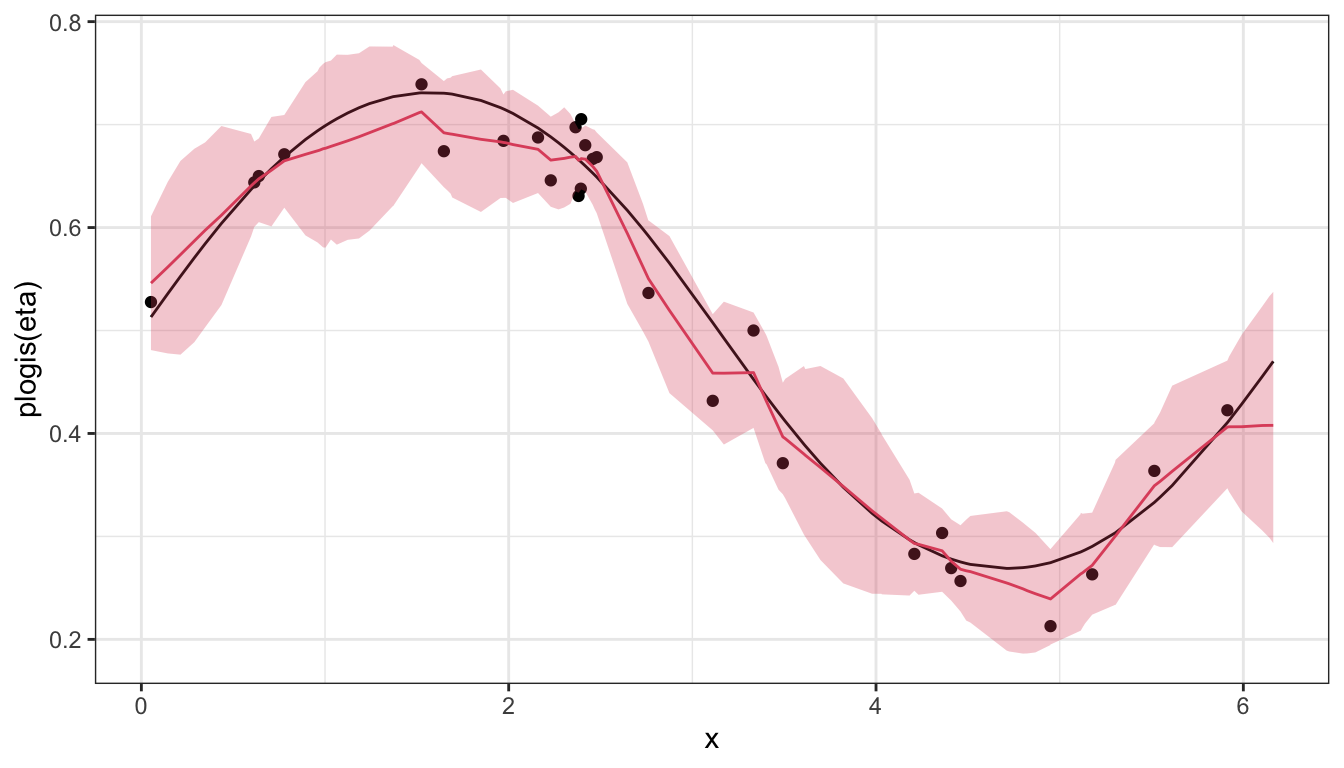
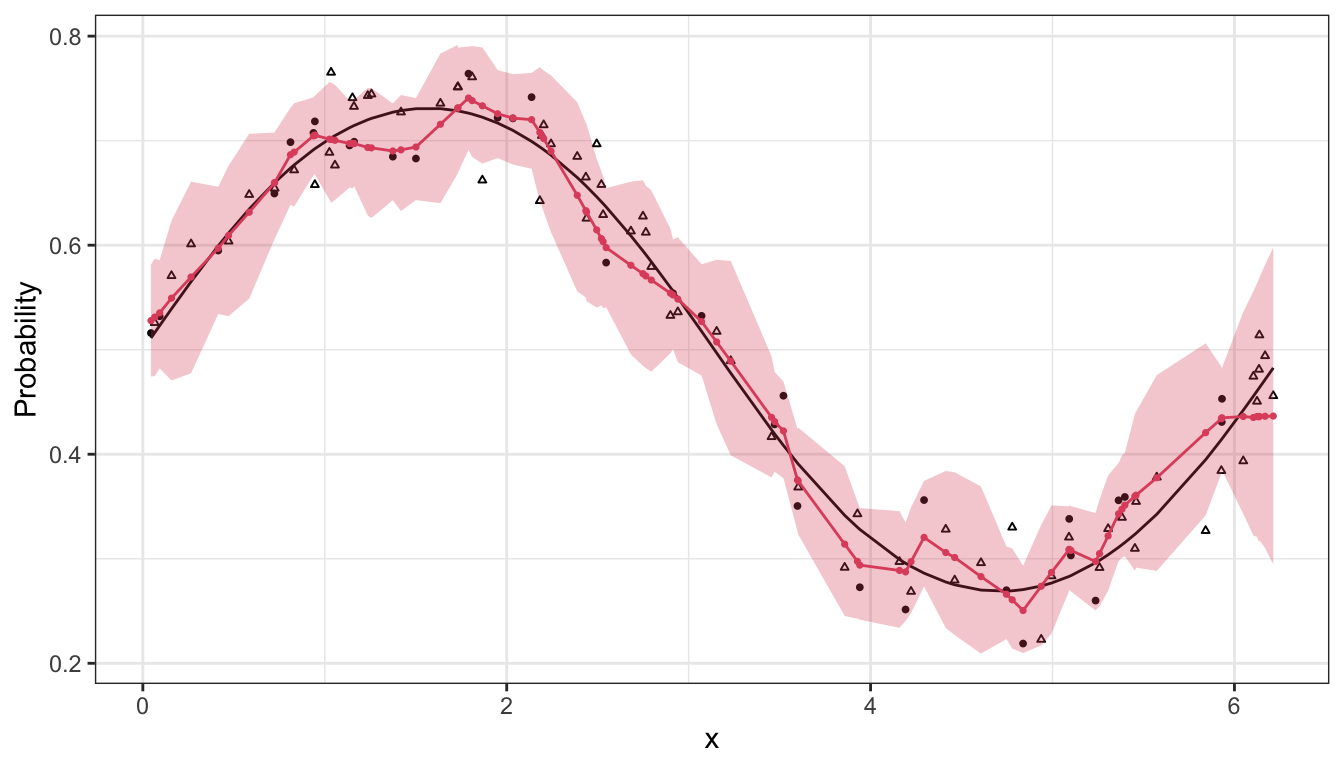
wip

diff --git a/docs/notebooks/random-walk-prior.html b/docs/notebooks/random-walk-prior.html
@@ -268,7 +268,7 @@ window.Quarto = {
 <div class="sourceCode cell-code" id="cb1"><pre class="sourceCode r code-with-copy"><code class="sourceCode r"><span id="cb1-1"><a href="#cb1-1" aria-hidden="true" tabindex="-1"></a><span class="fu">library</span>(data.table)</span>
 <span id="cb1-2"><a href="#cb1-2" aria-hidden="true" tabindex="-1"></a><span class="fu">library</span>(ggplot2)</span>
 <span id="cb1-3"><a href="#cb1-3" aria-hidden="true" tabindex="-1"></a></span>
-<span id="cb1-4"><a href="#cb1-4" aria-hidden="true" tabindex="-1"></a><span class="fu">set.seed</span>(<span class="dv">12</span>)</span>
+<span id="cb1-4"><a href="#cb1-4" aria-hidden="true" tabindex="-1"></a><span class="fu">set.seed</span>(<span class="dv">2</span>)</span>
 <span id="cb1-5"><a href="#cb1-5" aria-hidden="true" tabindex="-1"></a>d_obs <span class="ot">&lt;-</span> <span class="fu">data.table</span>(</span>
 <span id="cb1-6"><a href="#cb1-6" aria-hidden="true" tabindex="-1"></a>  <span class="at">x =</span> <span class="fu">sort</span>(<span class="fu">runif</span>(<span class="dv">100</span>, <span class="dv">0</span>, <span class="dv">2</span><span class="sc">*</span>pi))</span>
 <span id="cb1-7"><a href="#cb1-7" aria-hidden="true" tabindex="-1"></a>)</span>
@@ -390,7 +390,7 @@ window.Quarto = {
 <span id="cb3-8"><a href="#cb3-8" aria-hidden="true" tabindex="-1"></a>  <span class="at">x =</span> d_obs[, x], </span>
 <span id="cb3-9"><a href="#cb3-9" aria-hidden="true" tabindex="-1"></a>  <span class="at">y_mis =</span> d_obs[, y_mis], </span>
 <span id="cb3-10"><a href="#cb3-10" aria-hidden="true" tabindex="-1"></a>  <span class="at">prior_only =</span> F, </span>
-<span id="cb3-11"><a href="#cb3-11" aria-hidden="true" tabindex="-1"></a>  <span class="at">r_nu =</span> <span class="dv">10</span></span>
+<span id="cb3-11"><a href="#cb3-11" aria-hidden="true" tabindex="-1"></a>  <span class="at">r_nu =</span>  <span class="dv">3</span></span>
 <span id="cb3-12"><a href="#cb3-12" aria-hidden="true" tabindex="-1"></a>  )</span>
 <span id="cb3-13"><a href="#cb3-13" aria-hidden="true" tabindex="-1"></a></span>
 <span id="cb3-14"><a href="#cb3-14" aria-hidden="true" tabindex="-1"></a></span>
@@ -401,42 +401,51 @@ window.Quarto = {
 <div class="cell-output cell-output-stdout">
 <pre><code>Running MCMC with 1 chain...
 
-Chain 1 finished in 2.7 seconds.</code></pre>
+Chain 1 finished in 3.0 seconds.</code></pre>
 </div>
-<div class="sourceCode cell-code" id="cb5"><pre class="sourceCode r code-with-copy"><code class="sourceCode r"><span id="cb5-1"><a href="#cb5-1" aria-hidden="true" tabindex="-1"></a>f1<span class="sc">$</span><span class="fu">summary</span>(<span class="at">variables =</span> <span class="fu">c</span>(<span class="st">"nu"</span>))</span></code><button title="Copy to Clipboard" class="code-copy-button"><i class="bi"></i></button></pre></div>
+<div class="cell-output cell-output-stderr">
+<pre><code>Warning: 2 of 2000 (0.0%) transitions ended with a divergence.
+See https://mc-stan.org/misc/warnings for details.</code></pre>
+</div>
+<div class="sourceCode cell-code" id="cb6"><pre class="sourceCode r code-with-copy"><code class="sourceCode r"><span id="cb6-1"><a href="#cb6-1" aria-hidden="true" tabindex="-1"></a>f1<span class="sc">$</span><span class="fu">summary</span>(<span class="at">variables =</span> <span class="fu">c</span>(<span class="st">"nu"</span>))</span></code><button title="Copy to Clipboard" class="code-copy-button"><i class="bi"></i></button></pre></div>
 <div class="cell-output cell-output-stdout">
 <pre><code># A tibble: 1 × 10
-  variable  mean median     sd    mad    q5   q95  rhat ess_bulk ess_tail
-  &lt;chr&gt;    &lt;dbl&gt;  &lt;dbl&gt;  &lt;dbl&gt;  &lt;dbl&gt; &lt;dbl&gt; &lt;dbl&gt; &lt;dbl&gt;    &lt;dbl&gt;    &lt;dbl&gt;
-1 nu       0.459  0.448 0.0845 0.0826 0.343 0.612  1.00    1675.    1550.</code></pre>
+  variable  mean median    sd    mad    q5   q95  rhat ess_bulk ess_tail
+  &lt;chr&gt;    &lt;dbl&gt;  &lt;dbl&gt; &lt;dbl&gt;  &lt;dbl&gt; &lt;dbl&gt; &lt;dbl&gt; &lt;dbl&gt;    &lt;dbl&gt;    &lt;dbl&gt;
+1 nu       0.533  0.519 0.103 0.0946 0.392 0.722  1.00    1221.    1114.</code></pre>
 </div>
 </div>
 <p>Representation of output.</p>
 <div class="cell page-columns page-full">
-<div class="sourceCode cell-code" id="cb7" data-cap-location="margin"><pre class="sourceCode r code-with-copy"><code class="sourceCode r"><span id="cb7-1"><a href="#cb7-1" aria-hidden="true" tabindex="-1"></a>d_out <span class="ot">&lt;-</span> <span class="fu">data.table</span>(f1<span class="sc">$</span><span class="fu">draws</span>(<span class="at">variables =</span> <span class="st">"p"</span>, <span class="at">format =</span> <span class="st">"matrix"</span>))</span>
-<span id="cb7-2"><a href="#cb7-2" aria-hidden="true" tabindex="-1"></a></span>
-<span id="cb7-3"><a href="#cb7-3" aria-hidden="true" tabindex="-1"></a>d_fig <span class="ot">&lt;-</span> <span class="fu">melt</span>(d_out, <span class="at">measure.vars =</span> <span class="fu">names</span>(d_out))</span>
-<span id="cb7-4"><a href="#cb7-4" aria-hidden="true" tabindex="-1"></a>d_fig <span class="ot">&lt;-</span> d_fig[, .(</span>
-<span id="cb7-5"><a href="#cb7-5" aria-hidden="true" tabindex="-1"></a>  <span class="at">mu =</span> <span class="fu">mean</span>(value), </span>
-<span id="cb7-6"><a href="#cb7-6" aria-hidden="true" tabindex="-1"></a>  <span class="at">q_025 =</span> <span class="fu">quantile</span>(value, <span class="at">prob =</span> <span class="fl">0.025</span>),</span>
-<span id="cb7-7"><a href="#cb7-7" aria-hidden="true" tabindex="-1"></a>  <span class="at">q_975 =</span> <span class="fu">quantile</span>(value, <span class="at">prob =</span> <span class="fl">0.975</span>)</span>
-<span id="cb7-8"><a href="#cb7-8" aria-hidden="true" tabindex="-1"></a>), keyby <span class="ot">=</span> variable]</span>
-<span id="cb7-9"><a href="#cb7-9" aria-hidden="true" tabindex="-1"></a>d_fig[, ix <span class="sc">:</span><span class="er">=</span> <span class="fu">gsub</span>(<span class="st">"p["</span>, <span class="st">""</span>, variable, <span class="at">fixed =</span> T)]</span>
-<span id="cb7-10"><a href="#cb7-10" aria-hidden="true" tabindex="-1"></a>d_fig[, ix <span class="sc">:</span><span class="er">=</span> <span class="fu">as.numeric</span>(<span class="fu">gsub</span>(<span class="st">"]"</span>, <span class="st">""</span>, ix, <span class="at">fixed =</span> T))]</span>
-<span id="cb7-11"><a href="#cb7-11" aria-hidden="true" tabindex="-1"></a>d_fig[, x <span class="sc">:</span><span class="er">=</span> d_obs[ix, x]]</span>
-<span id="cb7-12"><a href="#cb7-12" aria-hidden="true" tabindex="-1"></a></span>
-<span id="cb7-13"><a href="#cb7-13" aria-hidden="true" tabindex="-1"></a></span>
-<span id="cb7-14"><a href="#cb7-14" aria-hidden="true" tabindex="-1"></a><span class="fu">ggplot</span>(d_obs, <span class="fu">aes</span>(<span class="at">x =</span> x, <span class="at">y =</span> <span class="fu">plogis</span>(eta))) <span class="sc">+</span></span>
-<span id="cb7-15"><a href="#cb7-15" aria-hidden="true" tabindex="-1"></a>  <span class="fu">geom_line</span>(<span class="at">lty =</span> <span class="dv">1</span>) <span class="sc">+</span></span>
-<span id="cb7-16"><a href="#cb7-16" aria-hidden="true" tabindex="-1"></a>  <span class="fu">geom_point</span>(<span class="at">data =</span> d_obs[y_mis <span class="sc">==</span> <span class="dv">0</span>],</span>
-<span id="cb7-17"><a href="#cb7-17" aria-hidden="true" tabindex="-1"></a>             <span class="fu">aes</span>(<span class="at">x =</span> x, <span class="at">y =</span> y<span class="sc">/</span>n)) <span class="sc">+</span></span>
-<span id="cb7-18"><a href="#cb7-18" aria-hidden="true" tabindex="-1"></a>  <span class="fu">geom_ribbon</span>(<span class="at">data =</span> d_fig, </span>
-<span id="cb7-19"><a href="#cb7-19" aria-hidden="true" tabindex="-1"></a>              <span class="fu">aes</span>(<span class="at">x =</span> x, <span class="at">ymin =</span> q_025, <span class="at">ymax =</span> q_975),</span>
-<span id="cb7-20"><a href="#cb7-20" aria-hidden="true" tabindex="-1"></a>              <span class="at">inherit.aes =</span> F, <span class="at">fill =</span> <span class="dv">2</span>, <span class="at">alpha =</span> <span class="fl">0.3</span>) <span class="sc">+</span></span>
-<span id="cb7-21"><a href="#cb7-21" aria-hidden="true" tabindex="-1"></a>  <span class="fu">geom_line</span>(<span class="at">data =</span> d_fig, </span>
-<span id="cb7-22"><a href="#cb7-22" aria-hidden="true" tabindex="-1"></a>              <span class="fu">aes</span>(<span class="at">x =</span> x, <span class="at">y =</span> mu), <span class="at">col =</span> <span class="dv">2</span>) <span class="sc">+</span></span>
-<span id="cb7-23"><a href="#cb7-23" aria-hidden="true" tabindex="-1"></a></span>
-<span id="cb7-24"><a href="#cb7-24" aria-hidden="true" tabindex="-1"></a>  <span class="fu">theme_bw</span>()</span></code><button title="Copy to Clipboard" class="code-copy-button"><i class="bi"></i></button></pre></div>
+<div class="sourceCode cell-code" id="cb8" data-cap-location="margin"><pre class="sourceCode r code-with-copy"><code class="sourceCode r"><span id="cb8-1"><a href="#cb8-1" aria-hidden="true" tabindex="-1"></a>d_out <span class="ot">&lt;-</span> <span class="fu">data.table</span>(f1<span class="sc">$</span><span class="fu">draws</span>(<span class="at">variables =</span> <span class="st">"p"</span>, <span class="at">format =</span> <span class="st">"matrix"</span>))</span>
+<span id="cb8-2"><a href="#cb8-2" aria-hidden="true" tabindex="-1"></a></span>
+<span id="cb8-3"><a href="#cb8-3" aria-hidden="true" tabindex="-1"></a>d_fig <span class="ot">&lt;-</span> <span class="fu">melt</span>(d_out, <span class="at">measure.vars =</span> <span class="fu">names</span>(d_out))</span>
+<span id="cb8-4"><a href="#cb8-4" aria-hidden="true" tabindex="-1"></a>d_fig <span class="ot">&lt;-</span> d_fig[, .(</span>
+<span id="cb8-5"><a href="#cb8-5" aria-hidden="true" tabindex="-1"></a>  <span class="at">mu =</span> <span class="fu">mean</span>(value), </span>
+<span id="cb8-6"><a href="#cb8-6" aria-hidden="true" tabindex="-1"></a>  <span class="at">q_025 =</span> <span class="fu">quantile</span>(value, <span class="at">prob =</span> <span class="fl">0.025</span>),</span>
+<span id="cb8-7"><a href="#cb8-7" aria-hidden="true" tabindex="-1"></a>  <span class="at">q_975 =</span> <span class="fu">quantile</span>(value, <span class="at">prob =</span> <span class="fl">0.975</span>)</span>
+<span id="cb8-8"><a href="#cb8-8" aria-hidden="true" tabindex="-1"></a>), keyby <span class="ot">=</span> variable]</span>
+<span id="cb8-9"><a href="#cb8-9" aria-hidden="true" tabindex="-1"></a>d_fig[, ix <span class="sc">:</span><span class="er">=</span> <span class="fu">gsub</span>(<span class="st">"p["</span>, <span class="st">""</span>, variable, <span class="at">fixed =</span> T)]</span>
+<span id="cb8-10"><a href="#cb8-10" aria-hidden="true" tabindex="-1"></a>d_fig[, ix <span class="sc">:</span><span class="er">=</span> <span class="fu">as.numeric</span>(<span class="fu">gsub</span>(<span class="st">"]"</span>, <span class="st">""</span>, ix, <span class="at">fixed =</span> T))]</span>
+<span id="cb8-11"><a href="#cb8-11" aria-hidden="true" tabindex="-1"></a>d_fig[, x <span class="sc">:</span><span class="er">=</span> d_obs[ix, x]]</span>
+<span id="cb8-12"><a href="#cb8-12" aria-hidden="true" tabindex="-1"></a></span>
+<span id="cb8-13"><a href="#cb8-13" aria-hidden="true" tabindex="-1"></a></span>
+<span id="cb8-14"><a href="#cb8-14" aria-hidden="true" tabindex="-1"></a><span class="fu">ggplot</span>(d_obs, <span class="fu">aes</span>(<span class="at">x =</span> x, <span class="at">y =</span> <span class="fu">plogis</span>(eta))) <span class="sc">+</span></span>
+<span id="cb8-15"><a href="#cb8-15" aria-hidden="true" tabindex="-1"></a>  <span class="fu">geom_line</span>(<span class="at">lty =</span> <span class="dv">1</span>) <span class="sc">+</span></span>
+<span id="cb8-16"><a href="#cb8-16" aria-hidden="true" tabindex="-1"></a>  <span class="fu">geom_point</span>(<span class="at">data =</span> d_obs[y_mis <span class="sc">==</span> <span class="dv">0</span>],</span>
+<span id="cb8-17"><a href="#cb8-17" aria-hidden="true" tabindex="-1"></a>             <span class="fu">aes</span>(<span class="at">x =</span> x, <span class="at">y =</span> y<span class="sc">/</span>n), <span class="at">size =</span> <span class="fl">0.7</span>) <span class="sc">+</span></span>
+<span id="cb8-18"><a href="#cb8-18" aria-hidden="true" tabindex="-1"></a>  <span class="fu">geom_point</span>(<span class="at">data =</span> d_obs[y_mis <span class="sc">==</span> <span class="dv">1</span>],</span>
+<span id="cb8-19"><a href="#cb8-19" aria-hidden="true" tabindex="-1"></a>             <span class="fu">aes</span>(<span class="at">x =</span> x, <span class="at">y =</span> y<span class="sc">/</span>n), <span class="at">size =</span> <span class="fl">0.7</span>, <span class="at">pch =</span> <span class="dv">2</span>) <span class="sc">+</span></span>
+<span id="cb8-20"><a href="#cb8-20" aria-hidden="true" tabindex="-1"></a>  <span class="fu">geom_ribbon</span>(<span class="at">data =</span> d_fig, </span>
+<span id="cb8-21"><a href="#cb8-21" aria-hidden="true" tabindex="-1"></a>              <span class="fu">aes</span>(<span class="at">x =</span> x, <span class="at">ymin =</span> q_025, <span class="at">ymax =</span> q_975),</span>
+<span id="cb8-22"><a href="#cb8-22" aria-hidden="true" tabindex="-1"></a>              <span class="at">inherit.aes =</span> F, <span class="at">fill =</span> <span class="dv">2</span>, <span class="at">alpha =</span> <span class="fl">0.3</span>) <span class="sc">+</span></span>
+<span id="cb8-23"><a href="#cb8-23" aria-hidden="true" tabindex="-1"></a>  <span class="fu">geom_line</span>(<span class="at">data =</span> d_fig, </span>
+<span id="cb8-24"><a href="#cb8-24" aria-hidden="true" tabindex="-1"></a>              <span class="fu">aes</span>(<span class="at">x =</span> x, <span class="at">y =</span> mu), <span class="at">col =</span> <span class="dv">2</span>) <span class="sc">+</span></span>
+<span id="cb8-25"><a href="#cb8-25" aria-hidden="true" tabindex="-1"></a>  <span class="fu">geom_point</span>(<span class="at">data =</span> d_fig, </span>
+<span id="cb8-26"><a href="#cb8-26" aria-hidden="true" tabindex="-1"></a>              <span class="fu">aes</span>(<span class="at">x =</span> x, <span class="at">y =</span> mu), <span class="at">col =</span> <span class="dv">2</span>, <span class="at">size =</span> <span class="fl">0.6</span>) <span class="sc">+</span></span>
+<span id="cb8-27"><a href="#cb8-27" aria-hidden="true" tabindex="-1"></a>  <span class="fu">scale_x_continuous</span>(<span class="st">"x"</span>) <span class="sc">+</span></span>
+<span id="cb8-28"><a href="#cb8-28" aria-hidden="true" tabindex="-1"></a>  <span class="fu">scale_y_continuous</span>(<span class="st">"Probability"</span>) <span class="sc">+</span></span>
+<span id="cb8-29"><a href="#cb8-29" aria-hidden="true" tabindex="-1"></a>  <span class="fu">theme_bw</span>()</span></code><button title="Copy to Clipboard" class="code-copy-button"><i class="bi"></i></button></pre></div>
 <div class="cell-output-display page-columns page-full">
 <div id="fig-rw1" class="quarto-float quarto-figure quarto-figure-center anchored page-columns page-full" data-cap-location="margin">
 <figure class="quarto-float quarto-float-fig figure page-columns page-full">
@@ -444,7 +453,7 @@ Chain 1 finished in 2.7 seconds.</code></pre>
 <img src="random-walk-prior_files/figure-html/fig-rw1-1.png" class="img-fluid figure-img" width="672">
 </div>
 <figcaption class="quarto-float-caption-margin quarto-float-caption quarto-float-fig margin-caption" id="fig-rw1-caption-0ceaefa1-69ba-4598-a22c-09a6ac19f8ca">
-Figure&nbsp;1: True mean response (black), random walk (red) with 95% credible interval (ribbon)
+Figure&nbsp;1: True function (black line), data on which the model was fit (black points), data we did not see (black triangles), random walk (red line) with interpolated points (red) and uncertainty (red ribbon).
 </figcaption>
 </figure>
 </div>

diff --git a/docs/about.html b/docs/about.html
@@ -211,24 +211,24 @@ pre > code.sourceCode > span > a:first-child::before { text-decoration: underlin
 <div class="cell-output cell-output-stdout">
 <pre><code>Local:    main /Users/mark/Documents/project/website/src/maj-biostat.github.io
 Remote:   main @ origin (https://github.com/maj-biostat/maj-biostat.github.io)
-Head:     [9e01149] 2024-09-18: add listing
+Head:     [ceabb23] 2024-09-18: minor edit
 
 Branches:         1
 Tags:             0
-Commits:          7
+Commits:          8
 Contributors:     2
 Stashes:          0
 Ignored files:    2
 Untracked files:  5
-Unstaged files:  25
-Staged files:     1
+Unstaged files:  26
+Staged files:     0
 
 Latest commits:
+[ceabb23] 2024-09-18: minor edit
 [9e01149] 2024-09-18: add listing
 [19b90b8] 2024-09-18: wip
 [951c7f4] 2024-09-18: wip
-[de069ef] 2024-09-18: wip
-[eb95473] 2024-09-18: wip</code></pre>
+[de069ef] 2024-09-18: wip</code></pre>
 </div>
 </div>
 

diff --git a/docs/index.html b/docs/index.html
@@ -258,7 +258,7 @@ Reading Time
 </tr>
 </thead>
 <tbody class="list">
-<tr data-index="0" data-listing-date-sort="1726588800000" data-listing-file-modified-sort="1726650564596" data-listing-date-modified-sort="1726650564000" data-listing-reading-time-sort="3" data-listing-word-count-sort="416" data-listing-title-sort="Random walk priors" data-listing-filename-sort="random-walk-prior.qmd">
+<tr data-index="0" data-listing-date-sort="1726588800000" data-listing-file-modified-sort="1726651124190" data-listing-date-modified-sort="1726651124000" data-listing-reading-time-sort="3" data-listing-word-count-sort="508" data-listing-title-sort="Random walk priors" data-listing-filename-sort="random-walk-prior.qmd">
 <td>
 <span class="listing-image"><p class="card-img-top"><img src="notebooks/random-walk-prior_files/figure-html/fig-rw1-1.png" style="height: 40px;"  class="thumbnail-image card-img"/></p></span>
 </td>
